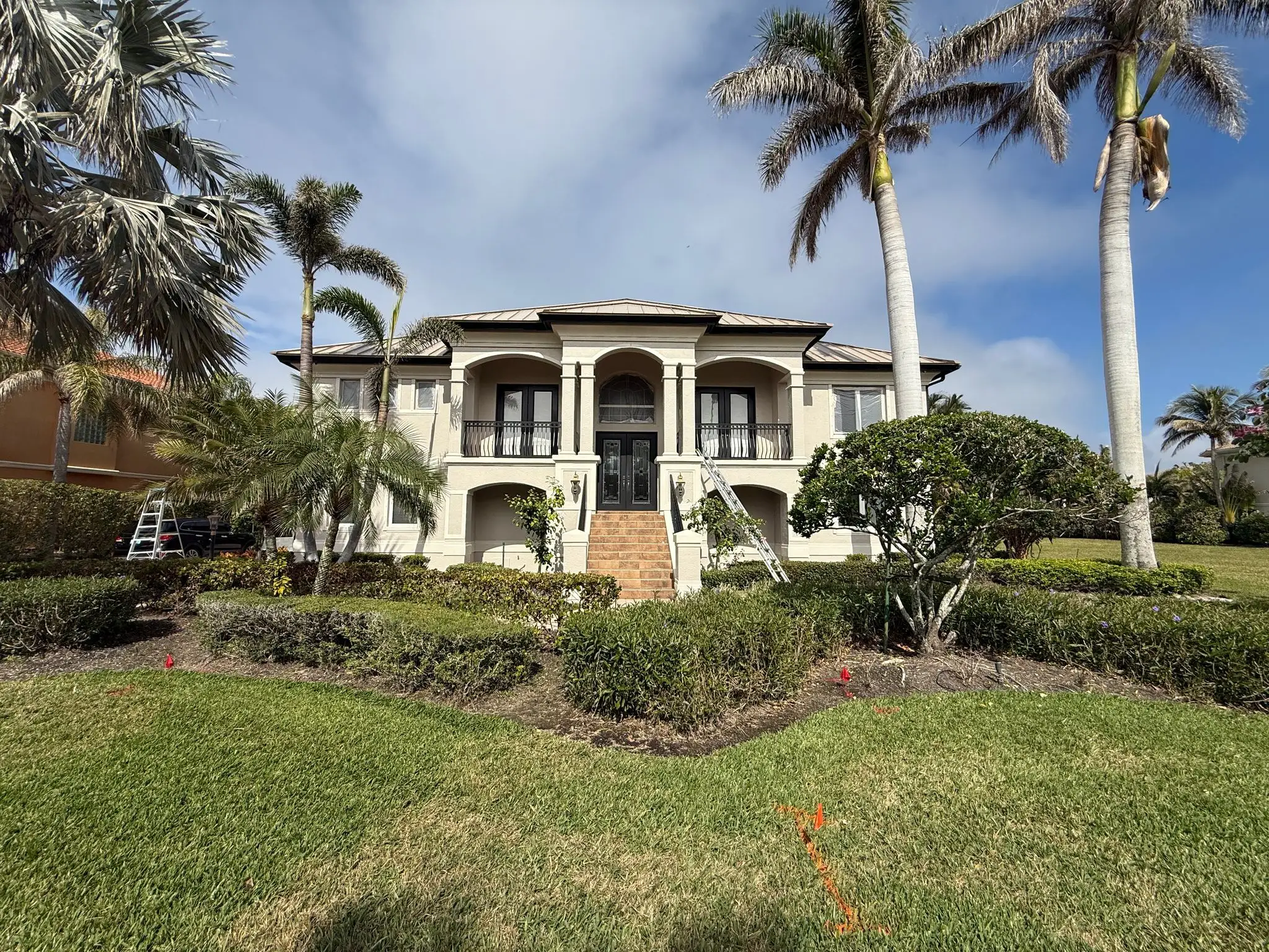
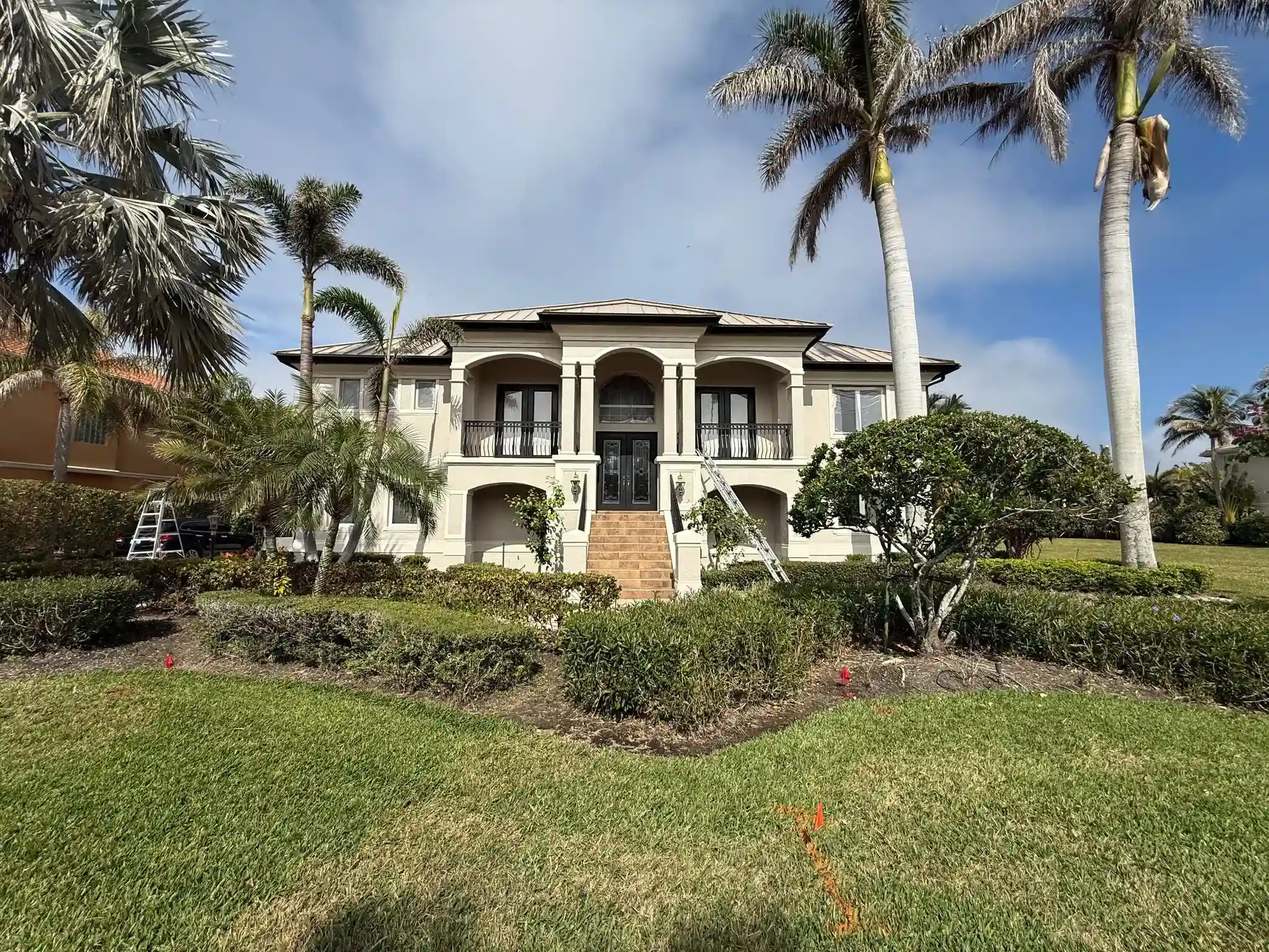
reducing images

diff --git a/src/Pages/Contact.jsx b/src/Pages/Contact.jsx
@@ -1,7 +1,7 @@
 import React, { useState, useEffect } from 'react'
 import emailjs from 'emailjs-com'
 import '../Styling/Contact.css'
-import fullBodyMascot from '../Assets/Transparent-03.png'
+import fullBodyMascot from '../Assets/Transparent-03.webp'
 import {AnimatePresence, motion } from 'framer-motion'
 import {TbSquareRoundedCheckFilled} from 'react-icons/tb'
 import { Link } from 'react-router-dom'
